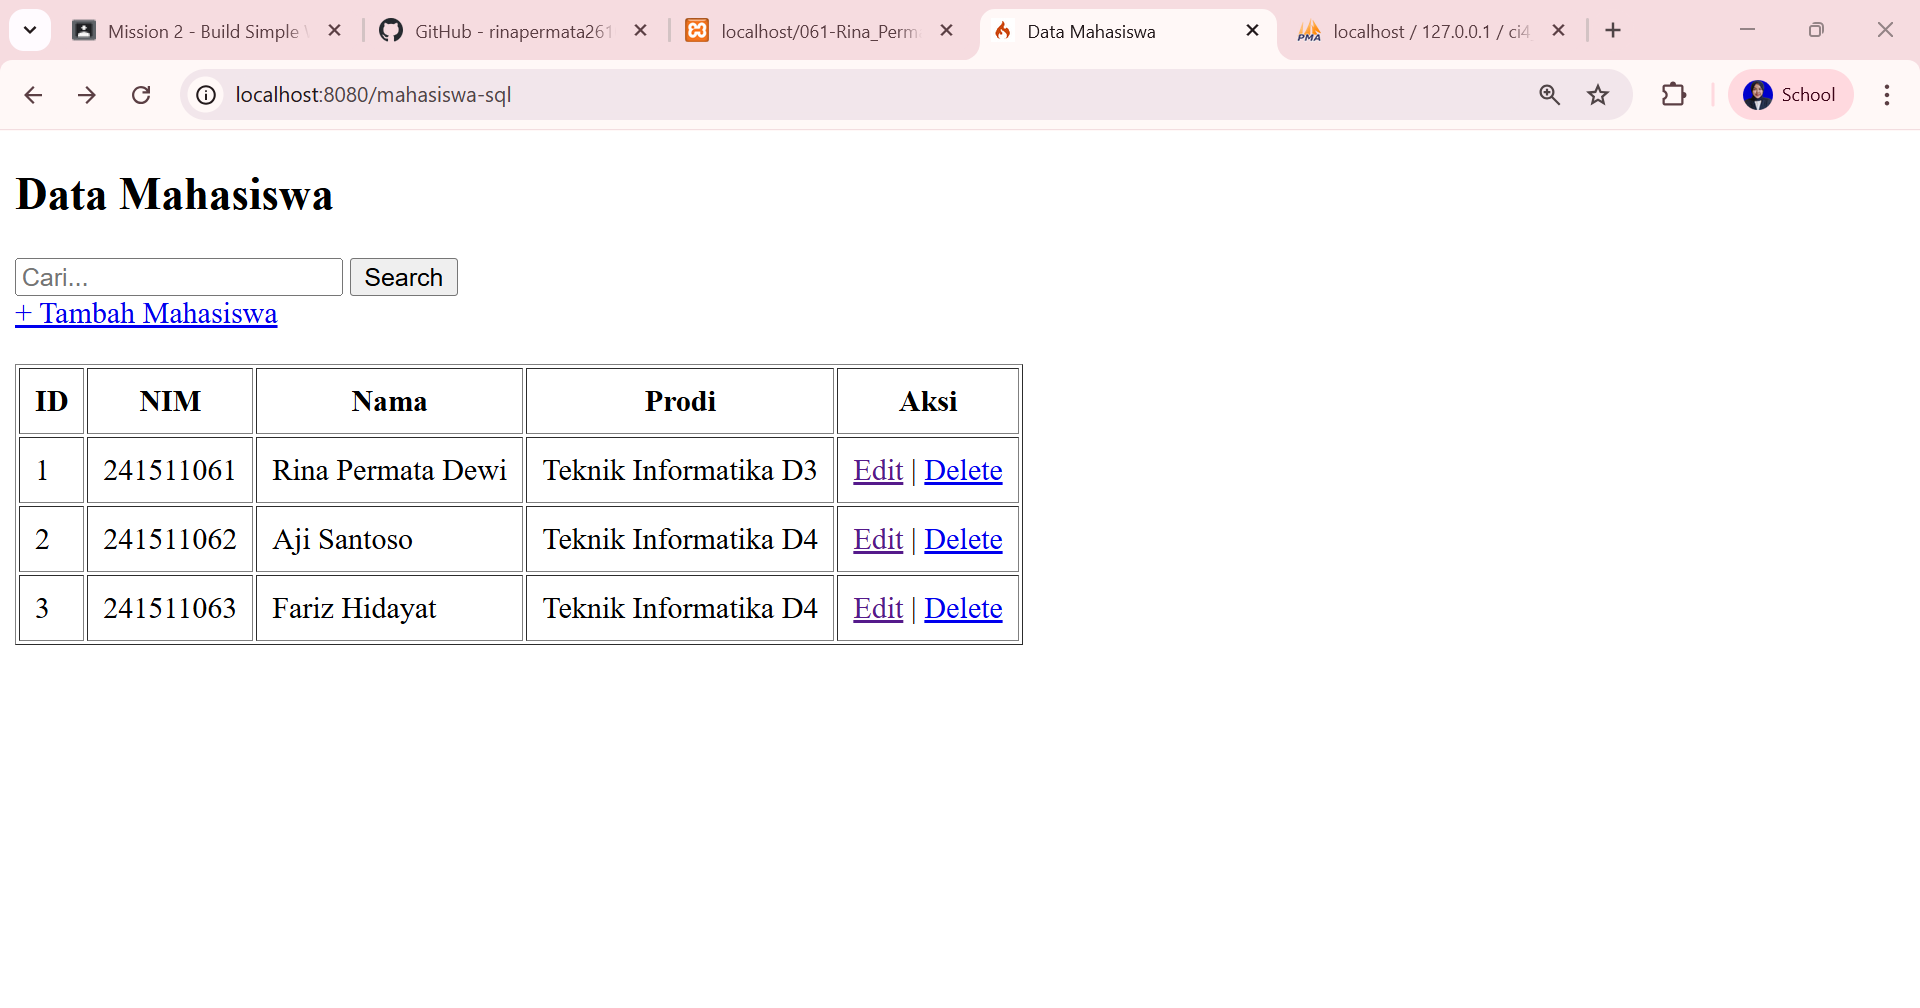
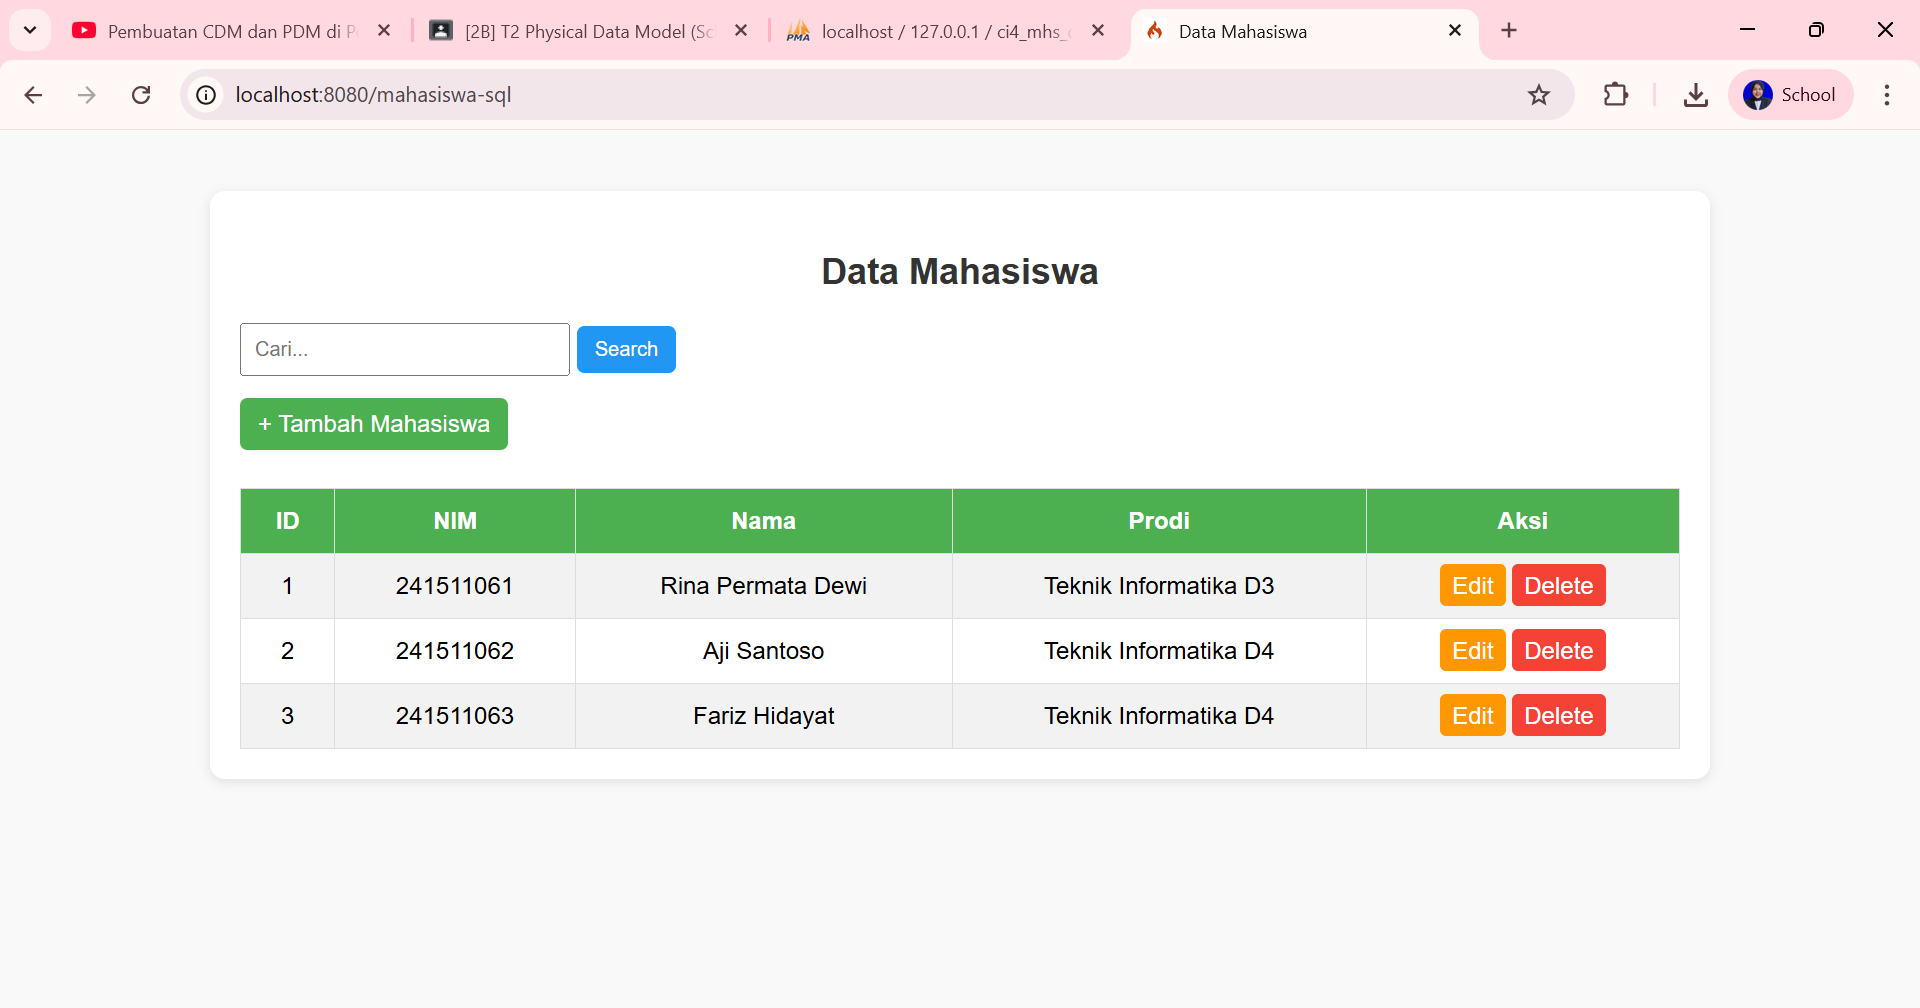
Update Tampilan Data Mahasiswa

diff --git a/ci4-mhs/app/Views/mahasiswa/list.php b/ci4-mhs/app/Views/mahasiswa/list.php
@@ -2,19 +2,99 @@
 <html>
 <head>
     <title>Data Mahasiswa</title>
+    <style>
+        body {
+            font-family: Arial, sans-serif;
+            margin: 40px;
+            background: #f9f9f9;
+        }
+        h2 {
+            text-align: center;
+            margin-bottom: 20px;
+            color: #333;
+        }
+        .container {
+            width: 80%;
+            margin: 0 auto;
+            background: #fff;
+            padding: 20px;
+            border-radius: 10px;
+            box-shadow: 0 2px 8px rgba(0,0,0,0.1);
+        }
+        .search-box {
+            margin-bottom: 15px;
+        }
+        .search-box input[type="text"] {
+            padding: 8px;
+            width: 200px;
+        }
+        .search-box button {
+            padding: 8px 12px;
+            background: #2196F3;
+            border: none;
+            color: white;
+            cursor: pointer;
+            border-radius: 5px;
+        }
+        a.add {
+            display: inline-block;
+            background: #4CAF50;
+            color: white;
+            padding: 8px 12px;
+            margin-bottom: 10px;
+            border-radius: 5px;
+            text-decoration: none;
+        }
+        table {
+            border-collapse: collapse;
+            width: 100%;
+            margin-top: 15px;
+        }
+        th, td {
+            border: 1px solid #ddd;
+            padding: 12px;
+            text-align: center;
+        }
+        th {
+            background-color: #4CAF50;
+            color: white;
+        }
+        tr:nth-child(even) {
+            background-color: #f2f2f2;
+        }
+        tr:hover {
+            background-color: #e6f7ff;
+        }
+        a.edit {
+            background-color: #ff9800;
+            color: white;
+            padding: 5px 8px;
+            border-radius: 4px;
+            text-decoration: none;
+        }
+        a.delete {
+            background-color: #f44336;
+            color: white;
+            padding: 5px 8px;
+            border-radius: 4px;
+            text-decoration: none;
+        }
+    </style>
 </head>
 <body>
+<div class="container">
     <h2>Data Mahasiswa</h2>
 
-    <form action="/mahasiswa-sql" method="get">
-        <input type="text" name="keyword" placeholder="Cari...">
-        <button type="submit">Search</button>
-    </form>
+    <div class="search-box">
+        <form action="/mahasiswa-sql" method="get">
+            <input type="text" name="keyword" placeholder="Cari...">
+            <button type="submit">Search</button>
+        </form>
+    </div>
 
-    <a href="/mahasiswa-sql/create">+ Tambah Mahasiswa</a>
-    <br><br>
+    <a href="/mahasiswa-sql/create" class="add">+ Tambah Mahasiswa</a>
 
-    <table border="1" cellpadding="8">
+    <table>
         <tr>
             <th>ID</th>
             <th>NIM</th>
@@ -29,11 +109,12 @@
             <td><?= $m['nama']; ?></td>
             <td><?= $m['prodi']; ?></td>
             <td>
-                <a href="/mahasiswa-sql/edit/<?= $m['id']; ?>">Edit</a> | 
-                <a href="/mahasiswa-sql/delete/<?= $m['id']; ?>" onclick="return confirm('Hapus data ini?')">Delete</a>
+                <a href="/mahasiswa-sql/edit/<?= $m['id']; ?>" class="edit">Edit</a>
+                <a href="/mahasiswa-sql/delete/<?= $m['id']; ?>" class="delete" onclick="return confirm('Hapus data ini?')">Delete</a>
             </td>
         </tr>
         <?php endforeach; ?>
     </table>
+</div>
 </body>
 </html>
